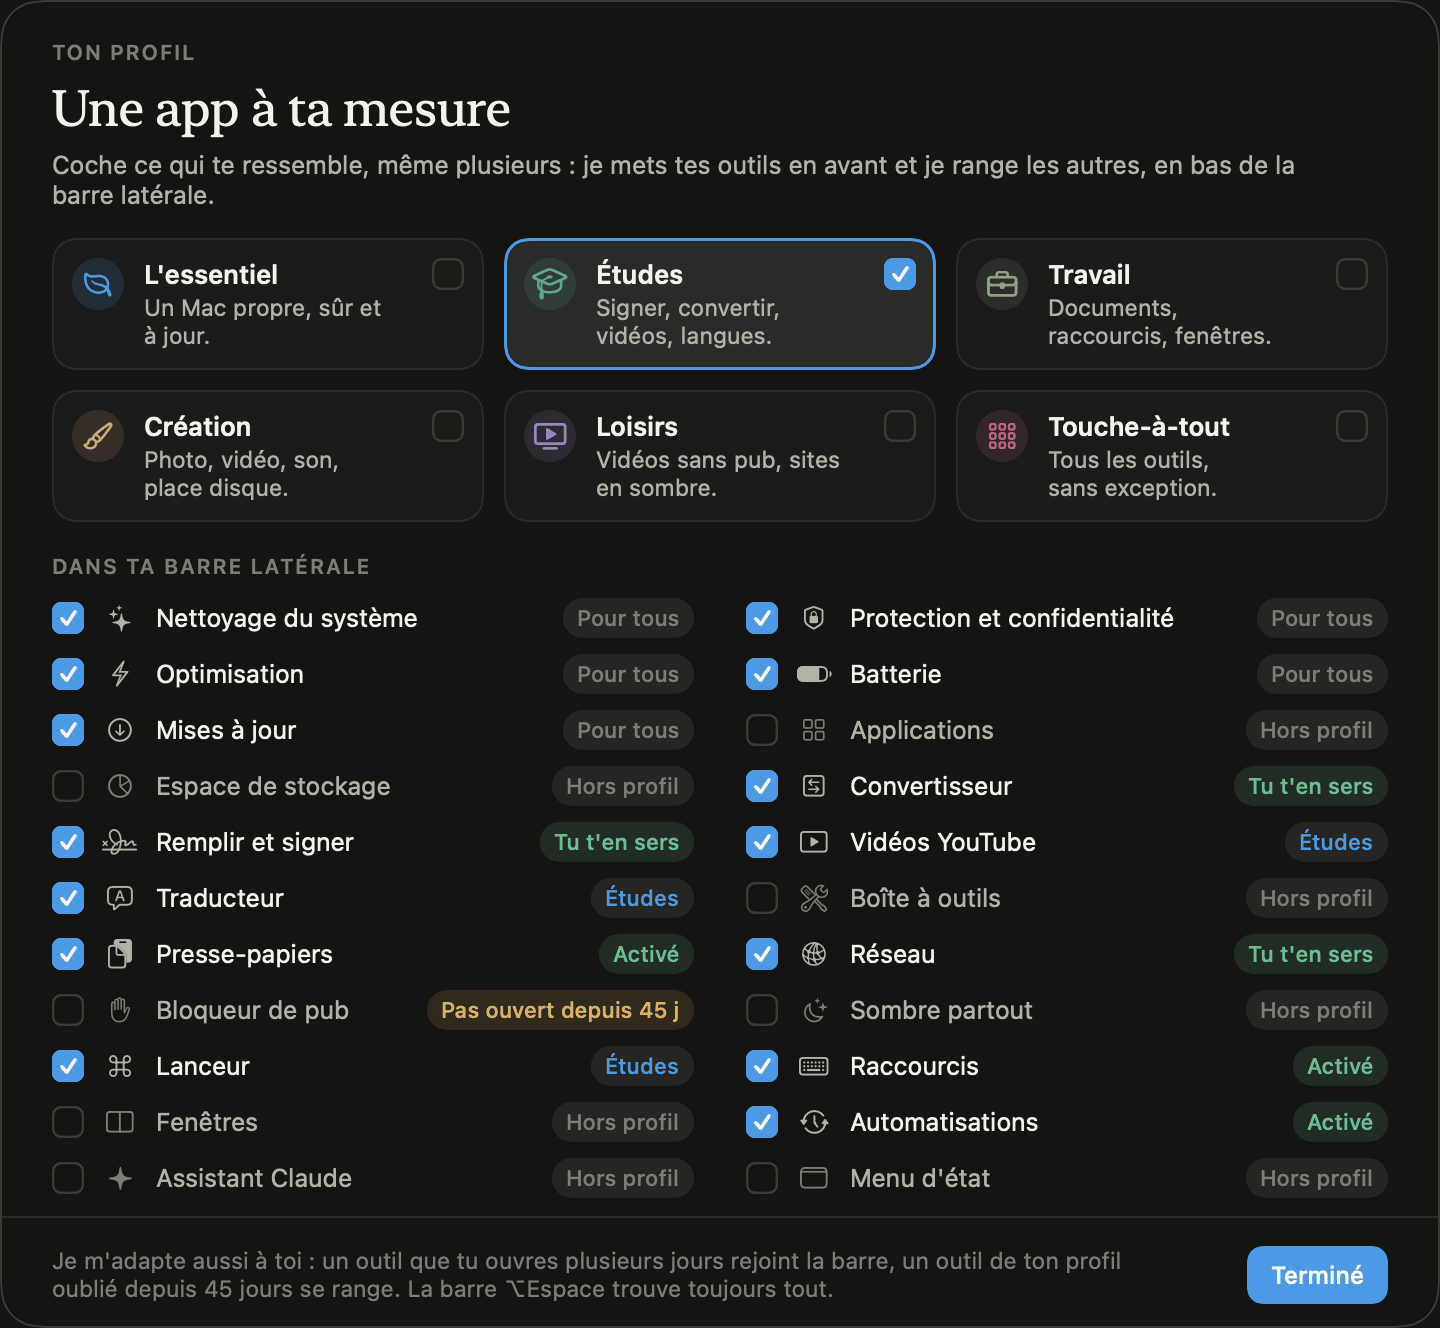
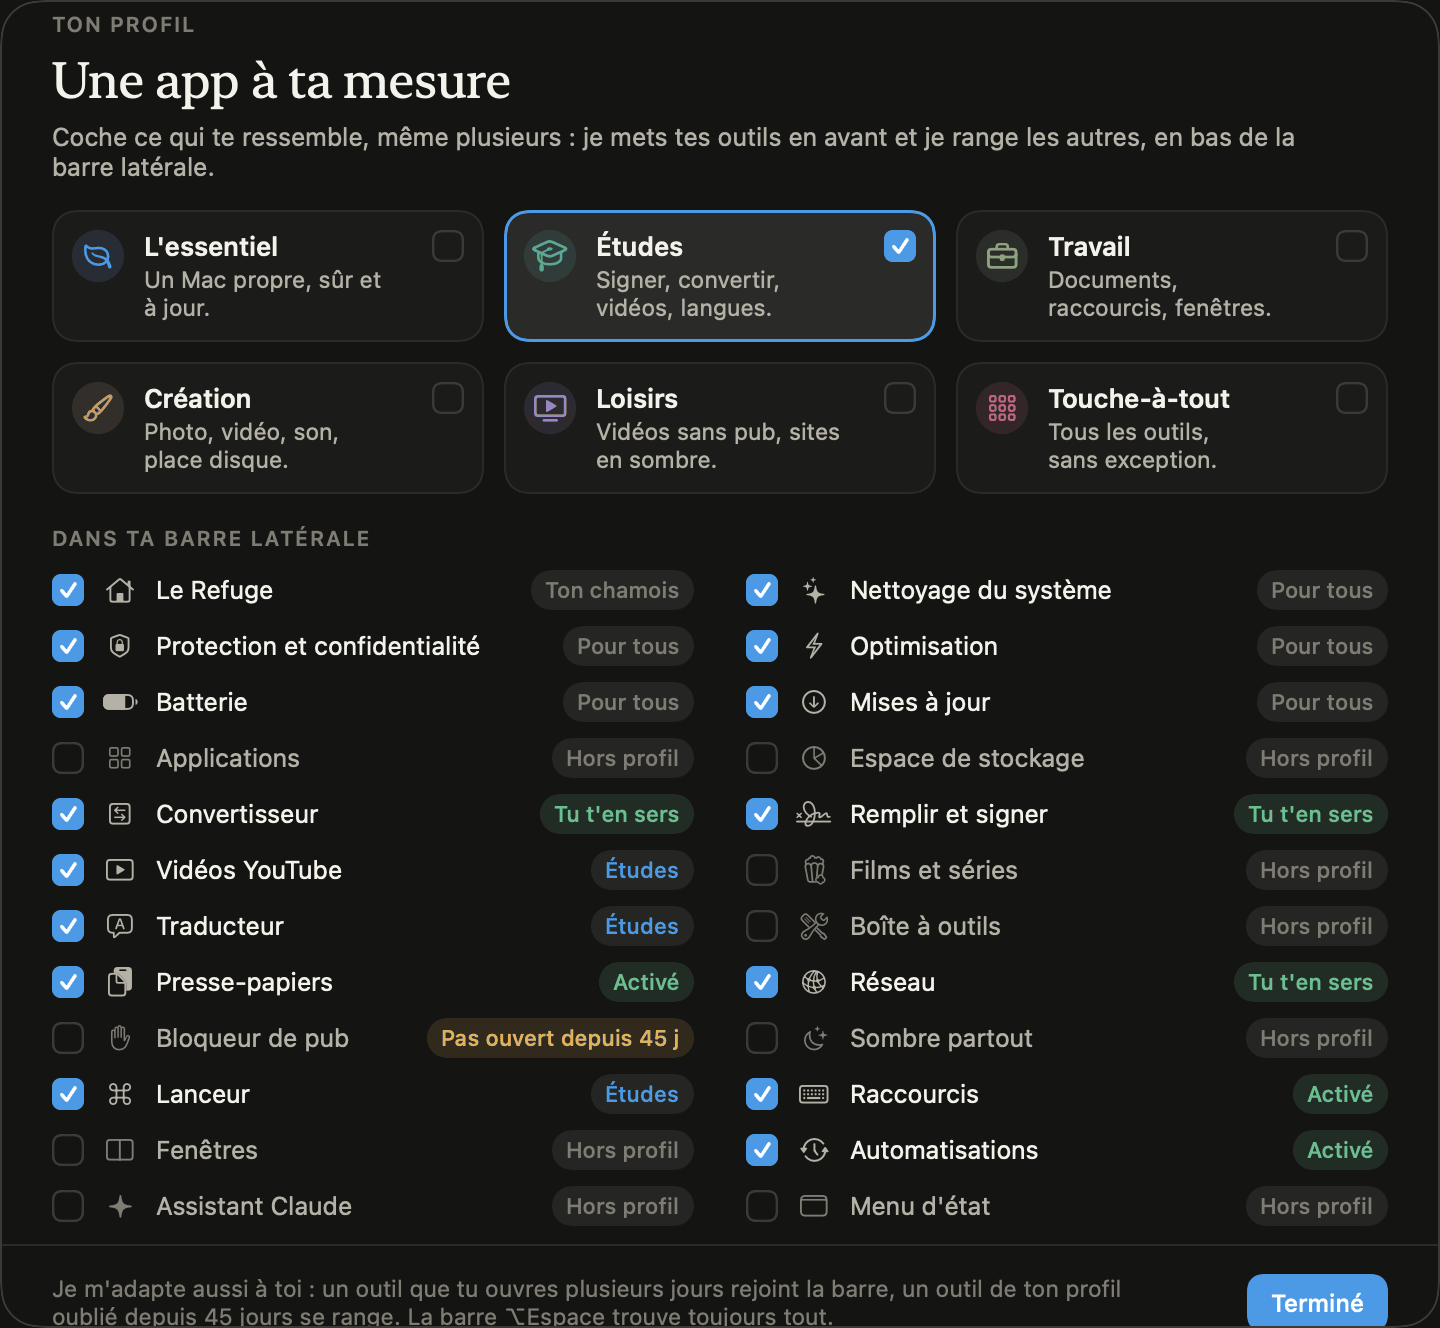
README : Chamois, ses captures refaites et le Refuge
Le README présente l'app sous son nom, Chamois, avec ce qu'elle fait aujourd'hui : la recherche de fichiers à la frappe, Remplir et signer, Films et séries, un Boost qui ne touche jamais à ce dont le Mac a besoin, une app discrète au repos, et le Refuge où l'on adopte un petit chamois. Il prévient que le fichier téléchargé et l'app dans le Finder gardent l'ancien nom, Clean My Claude, le temps de la transition, et que les copies installées se mettent à jour seules.

Toutes les captures sont refaites en mode démo avec la mascotte chamois (et allégées, 14 Mo → 3,6 Mo) ; nouvelles : Films et séries, la chambre du Refuge, et la fenêtre Fichiers à la place d'un simple calcul. Le guide prend le nom Chamois, une ligne Films et séries, une partie Le Refuge et la recette à jour des captures. En capture, l'aperçu du lanceur lit ses détails fictifs sur place (il affichait des tirets).

Labo: L-011

Changed region(s): [[0.0312, 0.4014, 0.8125, 1.0], [0.0312, 0.0, 0.9062, 0.3705], [0.8438, 0.4322, 0.9688, 1.0]]

diff --git a/Sources/CleanMyClaude/Features/Launcher/LauncherPreview.swift b/Sources/CleanMyClaude/Features/Launcher/LauncherPreview.swift
@@ -38,6 +38,8 @@ struct LauncherPreview: View {
             }
             .contentShape(Rectangle())
             .gesture(DragGesture(minimumDistance: 4).onChanged { _ in app.launcher.beginFileDrag(path, fromRow: false) })
+            // A snapshot never runs the reading task: its fictional details are read right here.
+            let info = Snapshot.isActive ? LauncherFileInfo.read(path) : info
             VStack(alignment: .leading, spacing: 5) {
                 row("Type", info.kind)
                 row(info.isDir ? "Contenu" : "Taille", info.size)

diff --git a/docs/GUIDE.md b/docs/GUIDE.md
@@ -1,6 +1,8 @@
-# Clean My Claude : le guide complet
+# Chamois : le guide complet
 
 Tout ce que fait l'app, comment elle protège tes données, et comment la compiler toi-même. Pour l'installer, deux lignes suffisent : voir le [README](../README.md).
+
+Chamois s'appelait Clean My Claude : le temps de la transition, l'app installée, son archive, ses dossiers et certains menus de macOS gardent cet ancien nom.
 
 <p align="center">
   <img src="screenshots/dashboard.png" alt="Tableau de bord : score de santé, stockage, mémoire, processeur, batterie, analyse intelligente, activité en direct, conseils et les outils du profil, les plus utilisés d'abord" width="900">
@@ -72,6 +74,12 @@ Tout ce que fait l'app, comment elle protège tes données, et comment la compil
     <td valign="top"><img src="screenshots/performance.png" alt="Optimisation : le Boost, température, consommation, fréquences des cœurs, apps passées sur les cœurs économes et diagnostic"></td>
   </tr>
   <tr>
+    <th colspan="2">Films et séries</th>
+  </tr>
+  <tr>
+    <td colspan="2" align="center"><img src="screenshots/cinema.png" alt="Films et séries : la recherche « marée » liste films et séries, la fiche du film choisi avec sa note, sa bande-annonce sans pub et les plateformes où le regarder en France" width="760"></td>
+  </tr>
+  <tr>
     <th colspan="2">Menu d'état</th>
   </tr>
   <tr>
@@ -118,6 +126,7 @@ L'app s'adapte aussi à ce dont tu te sers, sans rien envoyer nulle part : un ou
 | **Convertisseur** | **Aperçu du résultat réel avant d'enregistrer** : l'opération tourne pour de vrai sur le fichier choisi, dans un dossier temporaire, et le rendu s'affiche à côté de l'original (images, PDF page par page, vidéo dans le lecteur de macOS, sur un morceau au choix (10 s, 30 s, 1 min ou tout) à partir du passage voulu, avec la taille estimée ; son et GIF en entier, son, documents, contenu d'une archive, texte reconnu), avec la taille avant et après. Enregistrement dans **Téléchargements** (par défaut), à côté des originaux ou dans un dossier choisi. Glisser-déposer, lanceur, Dock ou clic droit dans le Finder (**Services › Convertir avec Clean My Claude**). Images (HEIC, JPEG, PNG, AVIF, TIFF, GIF, BMP, PDF, JPEG 2000 ; redimensionner, compresser, **retirer le GPS** sans recompresser), vidéo (H.264, HEVC, MOV ↔ MP4 sans réencodage, **vidéo → GIF**, extraction de l'audio), audio (AAC, ALAC, WAV, AIFF, FLAC), PDF (**fusionner** PDF et images dans l'ordre voulu, glissé à la poignée, avec les pages choisies de chacun, un signet par document et ses propres signets dessous, une page blanche pour l'impression recto verso si besoin ; découper, pivoter, alléger, images ↔ PDF), documents (Word, RTF, HTML, TXT, ODT, Markdown → HTML ou PDF), ZIP, **renommage par lot** avec aperçu, **OCR** en français et en anglais, QR codes. MP3, OGG, MKV ou WebM si `ffmpeg` est installé |
 | **Remplir et signer** | Ouvre un PDF, un formulaire ou la **photo d'un document** (glisser-déposer, lanceur, ou **⌘K › Remplir et signer…** sur un PDF) : les **champs du formulaire** deviennent des cases où écrire, cocher ou choisir (⇥ passe au suivant), et pour un PDF sans champs ou un scan on écrit **où l'on veut** (texte, coche, croix, point, date du jour, double-clic pour écrire). **Signature et paraphe** dessinés à la souris ou au trackpad, tapés dans une écriture manuscrite ou importés d'une photo (le papier devient transparent), gardés sur ce Mac pour la prochaine fois ; un cadre de signature se remplit d'un clic, un paraphe se recopie sur toutes les pages. Tout se déplace, se redimensionne, s'annule (⌘Z). L'original ne bouge pas : une copie « … – signé.pdf » est enregistrée à côté, en **version finale** (tout intégré aux pages) ou, pour un formulaire sans signature, encore modifiable ; un PDF protégé garde son mot de passe. Mail s'ouvre avec la copie en pièce jointe si tu veux l'envoyer. C'est une signature simple, comme une signature manuscrite scannée |
 | **Vidéos YouTube** | Colle un lien (ici ou dans le lanceur) : miniature, titre, chaîne et durée s'affichent, puis tu choisis **MP4** (de 360p à la 4K, en H.264 lisible partout jusqu'en 1080p, avec la taille de chaque qualité), **MP3** ou **M4A** avec la pochette, la vidéo entière ou **un extrait à la seconde** (deux poignées sur la durée, ou le début et la fin tapés). Une file de téléchargements avec la progression (pourcentage et temps restant, extraits compris), l'annulation et « Afficher dans le Finder », suivie aussi depuis n'importe quelle page (en bas de la barre latérale) et depuis la barre des menus, où un anneau se remplit à côté de l'icône ; enregistrement dans **Téléchargements** ou un dossier choisi. S'appuie sur `yt-dlp` et `ffmpeg`, installés et mis à jour d'un clic avec Homebrew |
+| **Films et séries** | Tape un titre (ici ou dans le lanceur : `film …`, `série …`, `regarder …`) : la fiche (année, durée, note, réalisation, distribution), la **bande-annonce sans pub** et **où le regarder** dans ton pays, par abonnement, location ou achat. Tes plateformes cochées passent en tête et ↩ ouvre la première. Données de The Movie Database (TMDB) et de Wikidata, avec ta **clé TMDB gratuite**, gardée dans le Trousseau ; seules les offres légales sont listées |
 | **Traducteur** | Deux moteurs : **Apple, sur ton Mac**, hors ligne et instantané (les langues se téléchargent une fois depuis la page), ou **Claude** pour le ton (neutre, formel, familier) et les nuances. Détection de la langue, inversion, historique local, et traduction en direct dans le lanceur |
 | **Boîte à outils** | Pipette et conversions de couleurs, mots de passe et phrases de passe (copie confidentielle effacée au bout de 90 s), empreintes SHA et MD5 de fichiers, Base64, URL, JSON, casse, compteur de mots, Lorem ipsum, UUID, horodatages, et **Caféine** pour empêcher la veille (aussi depuis le menu d'état) |
 | **Presse-papiers** | Historique des textes, images et fichiers copiés, épingles, recherche, rappel depuis le lanceur (`cb …`). **Désactivé tant que tu ne l'actives pas**, il ignore les mots de passe et ce qui est copié depuis un gestionnaire de mots de passe |
@@ -131,6 +140,14 @@ L'app s'adapte aussi à ce dont tu te sers, sans rien envoyer nulle part : un ou
 | **Automatisations** | Nettoyage planifié (seulement le « sans risque »), purge de la Corbeille au-delà de N jours, **rangement de Téléchargements** par règles, historique de santé du Mac en graphiques, journal. Tout est désactivé au départ et chaque automatisation montre un **aperçu à blanc** avant de s'activer. Elles tournent tant que l'app est ouverte (fenêtre fermée comprise) |
 | **Assistant Claude** | Pose tes questions sur ton Mac en langage naturel : Claude explique et propose jusqu'à trois actions de l'app, que tu lances d'un clic. « Demander à Claude » est aussi dans le clic droit d'un processus, d'un agent de démarrage ou d'un dossier, et dans le lanceur (`?`) |
 | **Menu d'état** | Dans la barre des menus : le téléchargement YouTube en cours (anneau et pourcentage à côté de l'icône, annulation dans le panneau), processeur, mémoire, disque, réseau, batterie, apps gourmandes, interrupteurs (Caféine, presse-papiers, fenêtres) et actions express. Alertes optionnelles si le disque est presque plein ou la mémoire saturée |
+
+### Le Refuge
+
+Un petit chamois naît d'un buisson de myrtilles et vit dans l'app. Prendre soin du Mac (un passage de l'analyse, un nettoyage, une menace écartée, un outil découvert, la tournée du jour) lui fait cueillir des **myrtilles** : données, elles le font grandir en six stades, de cabri à Chamois d'or ; gardées dans le panier, elles paient la **boutique** (pelages, accessoires, décoration de sa chambre, objets de saison). Il a son humeur, sa maison où chaque outil est une pièce, ses médailles, sa photo souvenir, et peut se promener sur le bureau, en haut des fenêtres (désactivé au départ). Rien ne s'achète avec de l'argent, il ne tombe jamais malade et ne perd rien de ce qu'il a gagné ; tout reste sur ce Mac.
+
+<p align="center">
+  <img src="screenshots/refuge-room.png" alt="Le Refuge : la chambre du chamois, ses myrtilles dans le panier et son humeur" width="860">
+</p>
 
 ## Le Boost, mesuré
 
@@ -371,15 +388,17 @@ swift build
 `--demo` fonctionne aussi avec `--dump` et `--snapshot`. Les données de démonstration décrivent un Mac inventé : un dossier personnel fictif, des apps aux noms et icônes inventés, leurs caches, processus, agents de démarrage, mises à jour, conversions et historique de presse-papiers. En mode démo, aucun scanner ne lit le disque, aucune commande ni requête n'est lancée et `Remover` refuse toute suppression ; `--selftest --demo` le vérifie sur un fichier témoin. Les captures de ce README en sortent :
 
 ```bash
-for p in dashboard cleanup protection performance apps storage menubar updates converter translator hotkeys toolbox clipboard network windows automation assistant; do
+for p in dashboard cleanup protection performance apps storage menubar updates converter translator hotkeys toolbox clipboard network windows automation assistant cinema refuge; do
   .build/debug/CleanMyClaude --snapshot docs/screenshots --demo --scale 2 --page $p
 done
-.build/debug/CleanMyClaude --snapshot docs/screenshots --demo --scale 2 --page launcher --query facture
+.build/debug/CleanMyClaude --snapshot docs/screenshots --demo --scale 2 --page launcher --tab files --query facture
+ffmpeg -loglevel error -y -i docs/screenshots/refuge.png -vf crop=iw:1160:0:12 docs/screenshots/refuge-room.png && rm docs/screenshots/refuge.png   # la chambre, en haut de la page
 .build/debug/CleanMyClaude --snapshot docs/screenshots --demo --scale 2 --page appearance
 for t in graphite phosphore sorbet minuit; do
   .build/debug/CleanMyClaude --snapshot /tmp/theme-$t --demo --page dashboard --theme $t && mv /tmp/theme-$t/dashboard.png docs/screenshots/theme-$t.png
 done
-rm docs/screenshots/menubar.png docs/screenshots/launcher.png docs/screenshots/onboarding-*-panel.png docs/screenshots/sidebar-panel.png docs/screenshots/selfupdate-panel.png
+rm docs/screenshots/menubar.png docs/screenshots/launcher.png docs/screenshots/onboarding-*-panel.png docs/screenshots/sidebar-panel.png docs/screenshots/selfupdate-panel.png \
+   docs/screenshots/statusitem-panel.png docs/screenshots/clipboard-window-panel.png docs/screenshots/refuge-ceremony-panel.png
 pngquant --quality 80-95 --force --ext .png docs/screenshots/*.png   # optionnel : divise le poids par quatre
 ```
 

diff --git a/README.md b/README.md
@@ -1,10 +1,10 @@
 <p align="center">
-  <img src="docs/icon.png" alt="Icône de Clean My Claude : la mascotte, un petit chamois, sur un ciel de montagne" width="150">
+  <img src="docs/icon.png" alt="Icône de Chamois : un petit chamois qui trie des feuilles au pied des montagnes" width="150">
 </p>
 
-<h1 align="center">Clean My Claude</h1>
+<h1 align="center">Chamois</h1>
 
-<p align="center"><b>Ton Mac propre, rapide et bien rangé. Une seule app, gratuite.</b></p>
+<p align="center"><b>Ton Mac propre, rapide et bien rangé, avec un petit chamois qui veille sur lui.<br>Une seule app, gratuite.</b></p>
 
 <p align="center">
   <a href="https://github.com/Olima34/CleanMyClaude/releases/latest/download/CleanMyClaude.zip"><b>⬇&nbsp; Télécharger pour Mac</b></a>
@@ -13,7 +13,7 @@
 </p>
 
 <p align="center">
-  <img src="docs/screenshots/dashboard.png" alt="Le tableau de bord de Clean My Claude : santé du Mac, stockage, mémoire, analyse intelligente, conseils et les outils de ton profil" width="860">
+  <img src="docs/screenshots/dashboard.png" alt="Le tableau de bord de Chamois : santé du Mac, stockage, mémoire, processeur, batterie, analyse intelligente, activité en direct, conseils et les outils de ton profil" width="860">
 </p>
 
 ## Installer en une ligne
@@ -30,31 +30,44 @@ L'app s'installe dans Applications et s'ouvre. Ensuite, elle te prévient elle-m
 <summary>Tu préfères télécharger le fichier toi-même ?</summary>
 
 1. Télécharge [CleanMyClaude.zip](https://github.com/Olima34/CleanMyClaude/releases/latest/download/CleanMyClaude.zip) et ouvre-le.
-2. Glisse **Clean My Claude** dans le dossier Applications.
+2. Glisse l'app dans le dossier Applications.
 3. Au premier lancement, macOS indique qu'il ne peut pas vérifier l'app (elle ne vient pas de l'App Store) : ouvre **Réglages Système › Confidentialité et sécurité** et clique sur **Ouvrir quand même**.
 
 </details>
+
+> Chamois s'appelait **Clean My Claude**. Le temps de la transition, le fichier téléchargé et l'app dans le Finder gardent cet ancien nom ; si tu l'as déjà, rien à faire : elle se met à jour toute seule.
 
 ## Ce qu'elle fait pour toi
 
 - **Fait de la place** : caches, fichiers oubliés, doublons, apps désinstallées proprement avec tout ce qu'elles laissent derrière elles.
 - **Protège ton Mac** : antimalware qui applique les signatures d'Apple à tout ce qui est sur le disque, bilan de sécurité de 40 points avec une note et des corrections en un clic, alertes en temps réel (démarrage, téléchargements, caméra, micro).
 - **Garde ton Mac en forme** : ce qui démarre en douce, mises à jour de tes apps, mémoire qui sature.
-- **Donne toute la puissance à ce que tu fais** : le Boost envoie ce qui tourne en arrière-plan sur les cœurs économes de la puce. Ton jeu ou ton export va plus vite, le Mac chauffe moins, et le benchmark intégré le prouve en chiffres.
-- **Retrouve tout en un éclair** : `⌥ Espace` ouvre un lanceur pour tes apps, tes fichiers, un calcul ou une traduction.
-- **T'évite les petites corvées** : convertir une photo, une vidéo ou un PDF, télécharger une vidéo YouTube en MP4 ou en MP3 en collant son lien, ouvrir une app d'un raccourci, ranger tes fenêtres, retrouver ce que tu as copié.
+- **Donne toute la puissance à ce que tu fais** : le Boost envoie ce qui tourne en arrière-plan sur les cœurs économes de la puce, sans jamais toucher à ce dont le Mac a besoin (synchronisation de tes fichiers, VPN, mots de passe). Ton jeu ou ton export va plus vite, le Mac chauffe moins, et le benchmark intégré le prouve en chiffres.
+- **Retrouve tout en un éclair** : `⌥ Espace` ouvre un lanceur pour tes apps, un calcul, une traduction ou n'importe quelle action de l'app, et une fenêtre qui trouve tes fichiers à la frappe, avec leur aperçu.
+- **T'évite les petites corvées** : convertir une photo, une vidéo ou un PDF, remplir et signer un formulaire, télécharger une vidéo YouTube en MP4 ou en MP3 en collant son lien, ouvrir une app d'un raccourci, ranger tes fenêtres, retrouver ce que tu as copié.
+- **Te dit où regarder un film** : tape son titre, tu vois sa fiche, sa bande-annonce sans pub et les plateformes où il est disponible en France (avec une clé TMDB gratuite).
 - **Répond à tes questions** : l'assistant Claude t'explique ce qui se passe sur ton Mac, avec ton abonnement Claude.
+
+<p align="center">
+  <img src="docs/screenshots/launcher-panel.png" alt="La recherche de fichiers : « facture » trouve un dossier et des PDF à la frappe, avec l'aperçu et les détails du dossier sélectionné à droite" width="700">
+</p>
+
+## Un chamois à adopter
+
+Dans **le Refuge**, un petit chamois naît d'un buisson de myrtilles. Chaque fois que tu prends soin de ton Mac (un nettoyage, une menace écartée, un outil découvert), il cueille des myrtilles : donne-les-lui et il grandit, de cabri à Chamois d'or, ou fais-lui plaisir à la boutique (pelages, accessoires, déco de sa chambre). Il peut même se promener sur ton bureau, en haut de tes fenêtres. Tout est facultatif, et rien ne s'achète avec de l'argent.
+
+<p align="center">
+  <img src="docs/screenshots/refuge-room.png" alt="Le Refuge : la chambre du chamois, ses myrtilles dans le panier et son humeur" width="860">
+</p>
+
+## Léger et sans mauvaise surprise
+
+- **Discret** : fenêtre fermée, l'app se fait oublier. Les mesures, les animations et les recherches s'arrêtent quand rien ne les montre, et rien ne bloque ton Mac, même si tu tapes très vite.
+- **Prudent** : rien n'est supprimé sans ton accord, et ce qui compte passe d'abord par la Corbeille.
+- **Privé** : tes fichiers et ton activité restent sur ton Mac, rien n'en sort sans ton clic (seule exception, que tu peux couper : l'app demande à GitHub s'il existe une nouvelle version d'elle-même).
 
 Et bien d'autres choses à découvrir dans l'app, avec cinq thèmes pour l'habiller à ton goût.
 
-<p align="center">
-  <img src="docs/screenshots/launcher-panel.png" alt="Le lanceur : la recherche « facture » trouve un dossier et des PDF instantanément, avec l'aperçu à droite" width="700">
-</p>
-
-## Sans mauvaise surprise
-
-Rien n'est supprimé sans ton accord, et ce qui compte passe d'abord par la Corbeille. Tes fichiers et ton activité restent sur ton Mac : rien n'en sort sans ton clic (seule exception, que tu peux couper : l'app demande à GitHub s'il existe une nouvelle version d'elle-même).
-
 ---
 
-<sub>Tout le détail (fonctionnalités, autorisations, confidentialité, compiler l'app soi-même) est dans le [guide complet](docs/GUIDE.md). Projet personnel et non officiel, sans lien avec Anthropic ni MacPaw. Licence [MIT](LICENSE). Captures réalisées avec des données fictives.</sub>
+<sub>Tout le détail (fonctionnalités, autorisations, confidentialité, compiler l'app soi-même) est dans le [guide complet](docs/GUIDE.md). Projet personnel et non officiel, sans lien avec Anthropic ni MacPaw. « Claude » est une marque d'Anthropic, « CleanMyMac » une marque de MacPaw. Licence [MIT](LICENSE). Captures réalisées avec des données fictives.</sub>
